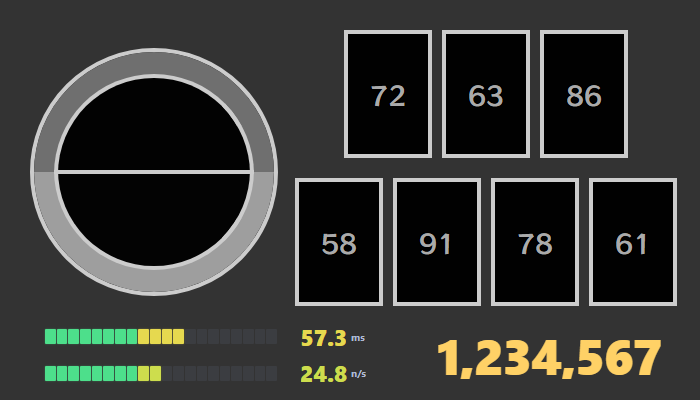
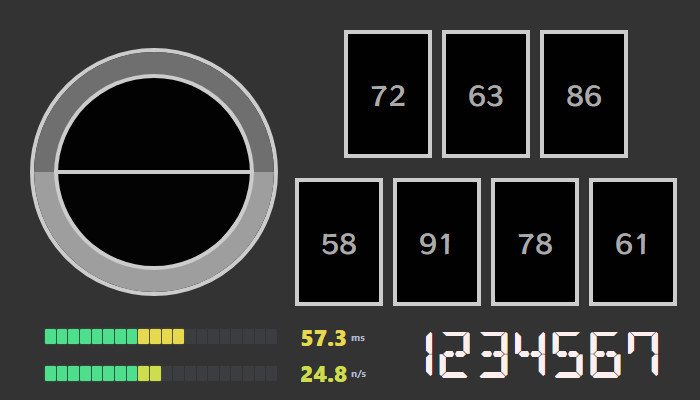
フォントと色を変更

Changed region(s): [[0.6, 0.81, 0.96, 0.96]]

diff --git a/html/statistics_panel.css b/html/statistics_panel.css
@@ -1,5 +1,13 @@
 @charset "UTF-8";
 
+@font-face {
+    font-family: "DSEG14Classic";
+    src: url("DSEG14Classic-Bold.woff2") format("woff2");
+    font-weight: bold;
+    font-style: normal;
+    font-display: swap;
+}
+
 .statistics-modern {
     display: none;
     grid-template-columns: minmax(0, 1fr) minmax(270px, 0.8fr);
@@ -108,9 +116,10 @@ html.statistics-preview warning {
 .statistics-notes-value {
     max-width: 100%;
     overflow: hidden;
-    color: #ffd166;
+    color: var(--color-notes);
+    font-family: "DSEG14Classic";
     font-size: 56px;
-    font-weight: 850;
+    font-weight: bold;
     line-height: 0.95;
     letter-spacing: -0.03em;
     text-overflow: clip;

diff --git a/html/statistics_panel.js b/html/statistics_panel.js
@@ -95,10 +95,7 @@
 
     window.updateStatisticsPanel = function (kind, rawValue) {
         if (window.statisticsPreviewMode) return;
-        const number = Number(rawValue);
-        const text = kind === 'notes' && Number.isFinite(number)
-            ? number.toLocaleString('ja-JP')
-            : String(rawValue);
+        const text = String(rawValue);
         document.querySelectorAll(`[data-statistics-value="${kind}"]`).forEach(element => {
             element.textContent = text;
             if (kind === 'notes') fitNotesValue(element);
